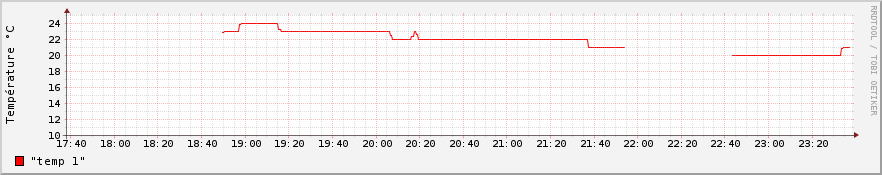
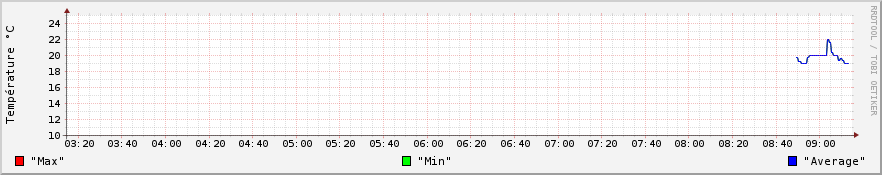
update rddtool config

diff --git a/chac/templates/index.html b/chac/templates/index.html
@@ -5,8 +5,13 @@
     <meta http-equiv="refresh" content="60">
 </head>
 <body>
-    <img src="{{url_for('static', filename='hum.png')}}">
-<img src="{{url_for('static', filename='temp.png')}}">
-
+    <div>
+        <img src="{{url_for('static', filename='hum.png')}}">
+        <img src="{{url_for('static', filename='temp.png')}}">
+    </div>
+    <div>
+        <img src="{{url_for('static', filename='hum-day.png')}}">
+        <img src="{{url_for('static', filename='temp-day.png')}}">
+    </div>
 </body>
 </html>

diff --git a/chac/db.py b/chac/db.py
@@ -16,21 +16,55 @@ class Database(object):
                 self.filename,
                 '--step', '60',
                 'DS:hum1:GAUGE:600:0:100',
-                'DS:temp1:GAUGE:600:0:50',
-                'RRA:MAX:0.5:1:288'
+                'DS:temp1:GAUGE:600:-50:50',
+                'DS:hum2:GAUGE:600:0:100',
+                'DS:temp2:GAUGE:600:-50:50',
+
+                # every minute during 1 month
+                'RRA:MAX:0.5:1:44640',
+                'RRA:MIN:0.5:1:44640',
+                'RRA:AVERAGE:0.5:1:44640',
+
+                # every hour during 1 year
+                'RRA:MAX:0.5:60:8760',
+                'RRA:MIN:0.5:60:8760',
+                'RRA:AVERAGE:0.5:60:8760',
+
+                # every day during 100 years
+                'RRA:MAX:0.5:86400:36500',
+                'RRA:MIN:0.5:86400:36500',
+                'RRA:AVERAGE:0.5:86400:36500',
             )
 
-    def update(self, humidity, temperature):
-        rrdtool.update(self.filename, 'N:%s:%s' % (int(float(humidity)), int(float(temperature))))
+    def update(self, hum1, temp1, hum2=0, temp2=0):
+        rrdtool.update(self.filename, 'N:%s:%s:%s:%s' % (hum1, temp1, hum2, temp2))
 
     def graph(self):
         rrdtool.graph(
             'chac/static/temp.png', '--slope-mode', '--start', '-6h', '-w', '785', '-h', '120', u'--vertical-label=Température °C',
             'DEF:temp1=%s:temp1:MAX' % self.filename,
-            'LINE:temp1#ff0000:"temp 1"'
+            'DEF:temp2=%s:temp1:MIN' % self.filename,
+            'DEF:temp3=%s:temp1:AVERAGE' % self.filename,
+            'LINE:temp1#ff0000:"Max"',
+            'LINE:temp2#00ff00:"Min"',
+            'LINE:temp3#0000ff:"Average"'
         )
         rrdtool.graph(
             'chac/static/hum.png', '--slope-mode', '--start', '-6h', '-w', '785', '-h', '120',  u'--vertical-label=Humidité %',
+            'DEF:hum1=%s:hum1:MAX' % self.filename,
+            'DEF:hum2=%s:hum1:MIN' % self.filename,
+            'DEF:hum3=%s:hum1:AVERAGE' % self.filename,
+            'LINE:hum1#ff0000:"Max"',
+            'LINE:hum2#00ff00:"Min"',
+            'LINE:hum3#0000ff:"Average"'
+        )
+        rrdtool.graph(
+            'chac/static/temp-day.png', '--slope-mode', '--start', '-1d', '-w', '785', '-h', '120', u'--vertical-label=Température °C',
+            'DEF:temp1=%s:temp1:MAX' % self.filename,
+            'LINE:temp1#ff0000:"temp 1"'
+        )
+        rrdtool.graph(
+            'chac/static/hum-day.png', '--slope-mode', '--start', '-1d', '-w', '785', '-h', '120',  u'--vertical-label=Humidité %',
             'DEF:hum1=%s:hum1:MAX' % self.filename,
             'LINE:hum1#00ff00:"hum 1"'
         )
